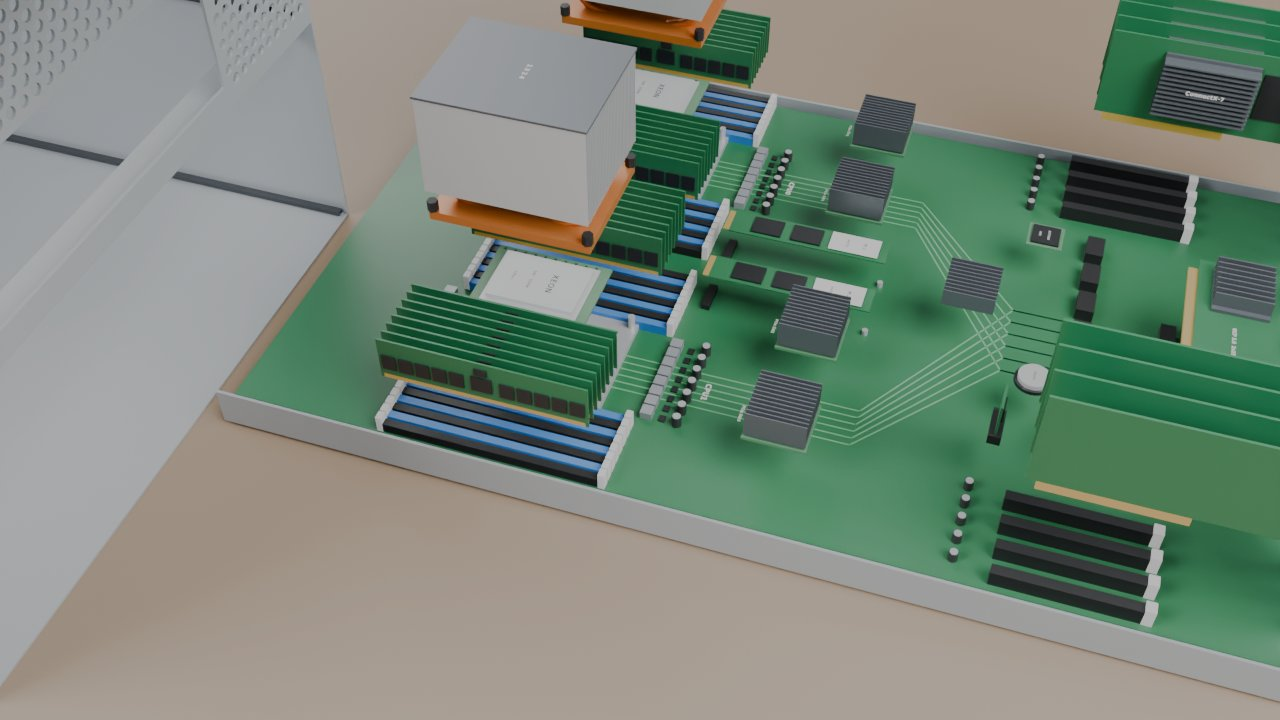
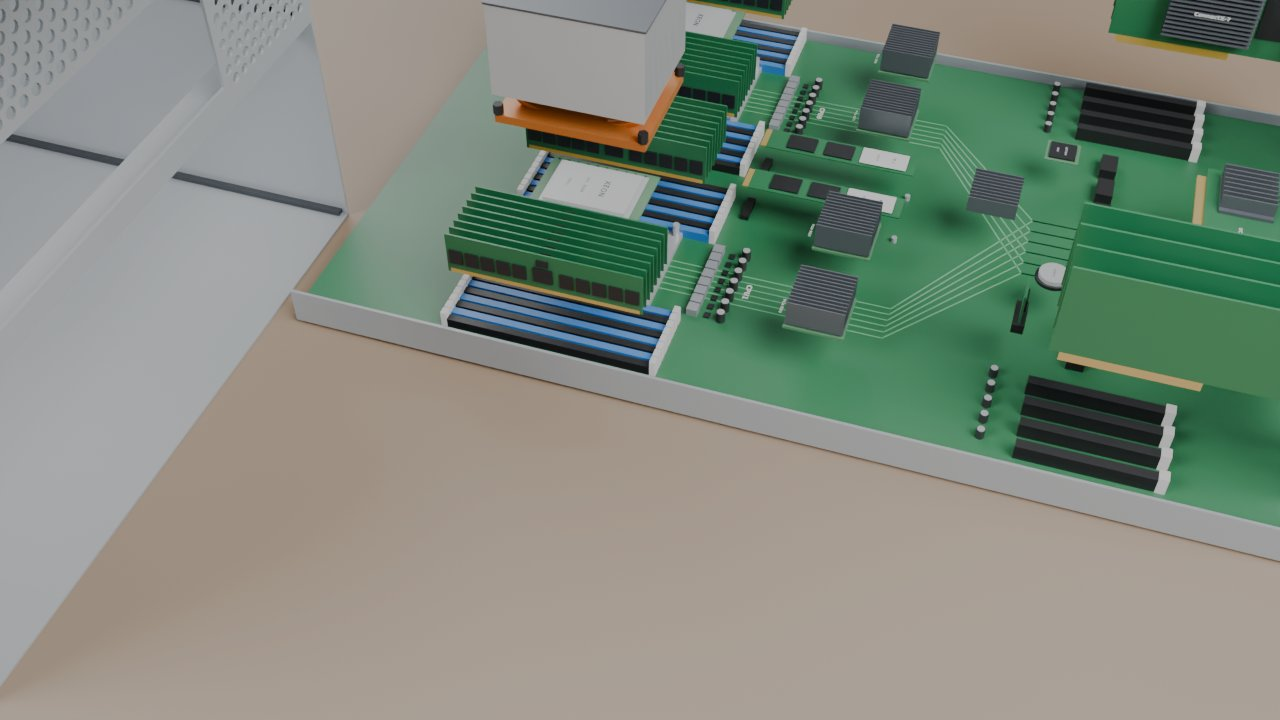
AI 服务器：爆炸距离收窄（GPU 托盘抽出 62→50cm，主板托盘往远处多让 10cm），重渲预览图
虚幻桌面体检时左边伸出桌沿、右边碰到触屏。

Claude-Session: https://claude.ai/code/session_01PHKpeRwAmyHtEZUkLXnPTV

diff --git a/AI服务器爆炸图/build_ai_server.py b/AI服务器爆炸图/build_ai_server.py
@@ -794,8 +794,8 @@ PSU_Y = (240.0, 425.0)
 #   5 主板托盘从后面抽出（到桌子右边）再往里让一点，CPU 散热器、CPU、内存、网卡、各种小芯片往上浮
 # 虚幻里服务器转 180°：前面板朝左手边、后面朝右手边、+X 那一侧朝着玩家（-X 往远处）
 LID_UP = 520.0
-GPU_TRAY = [(0, 0, 280, .18), (0, -620, 0, .40)]
-MB_TRAY = [(0, 690, 0, .46), (-220, 0, 0, .90)]
+GPU_TRAY = [(0, 0, 280, .18), (0, -500, 0, .40)]
+MB_TRAY = [(0, 690, 0, .46), (-320, 0, 0, .90)]
 
 
 def gpu_route(*more):

diff --git a/AI服务器爆炸图/README.md b/AI服务器爆炸图/README.md
@@ -46,9 +46,9 @@
 | 2 | 拔前面的 14 个风扇、8 块硬盘、控制面板、硬盘背板 | 往前（左）拔出一截 |
 | 3 | 电源从后面拔出，再往上抬；配电板往上抬 | 机箱后上方 |
 | 4 | GPU 托盘先抬高、再整个往前抽出 | 桌子左边、比机箱高；上面的零件一层层往上浮：散热器最高，下面依次是 HBM、GPU 芯片、供电模块、SXM 载板，NVSwitch 和它的散热器在两排 GPU 中间 |
-| 5 | 主板托盘从后面整个抽出，再往里让 22 cm | 桌子右边；CPU 散热器、CPU、4 组内存、8 张网卡、各种小芯片往上浮 |
+| 5 | 主板托盘从后面整个抽出，再往远处让 32 cm | 桌子右边；CPU 散热器、CPU、4 组内存、8 张网卡、各种小芯片往上浮 |
 
-主板托盘抽出来以后"往里让"，是为了不碰到虚幻工作室右手边的触屏。
+主板托盘抽出来以后"往远处让"，是为了不碰到虚幻工作室右手边的触屏。
 
 ## 原理速记
 
